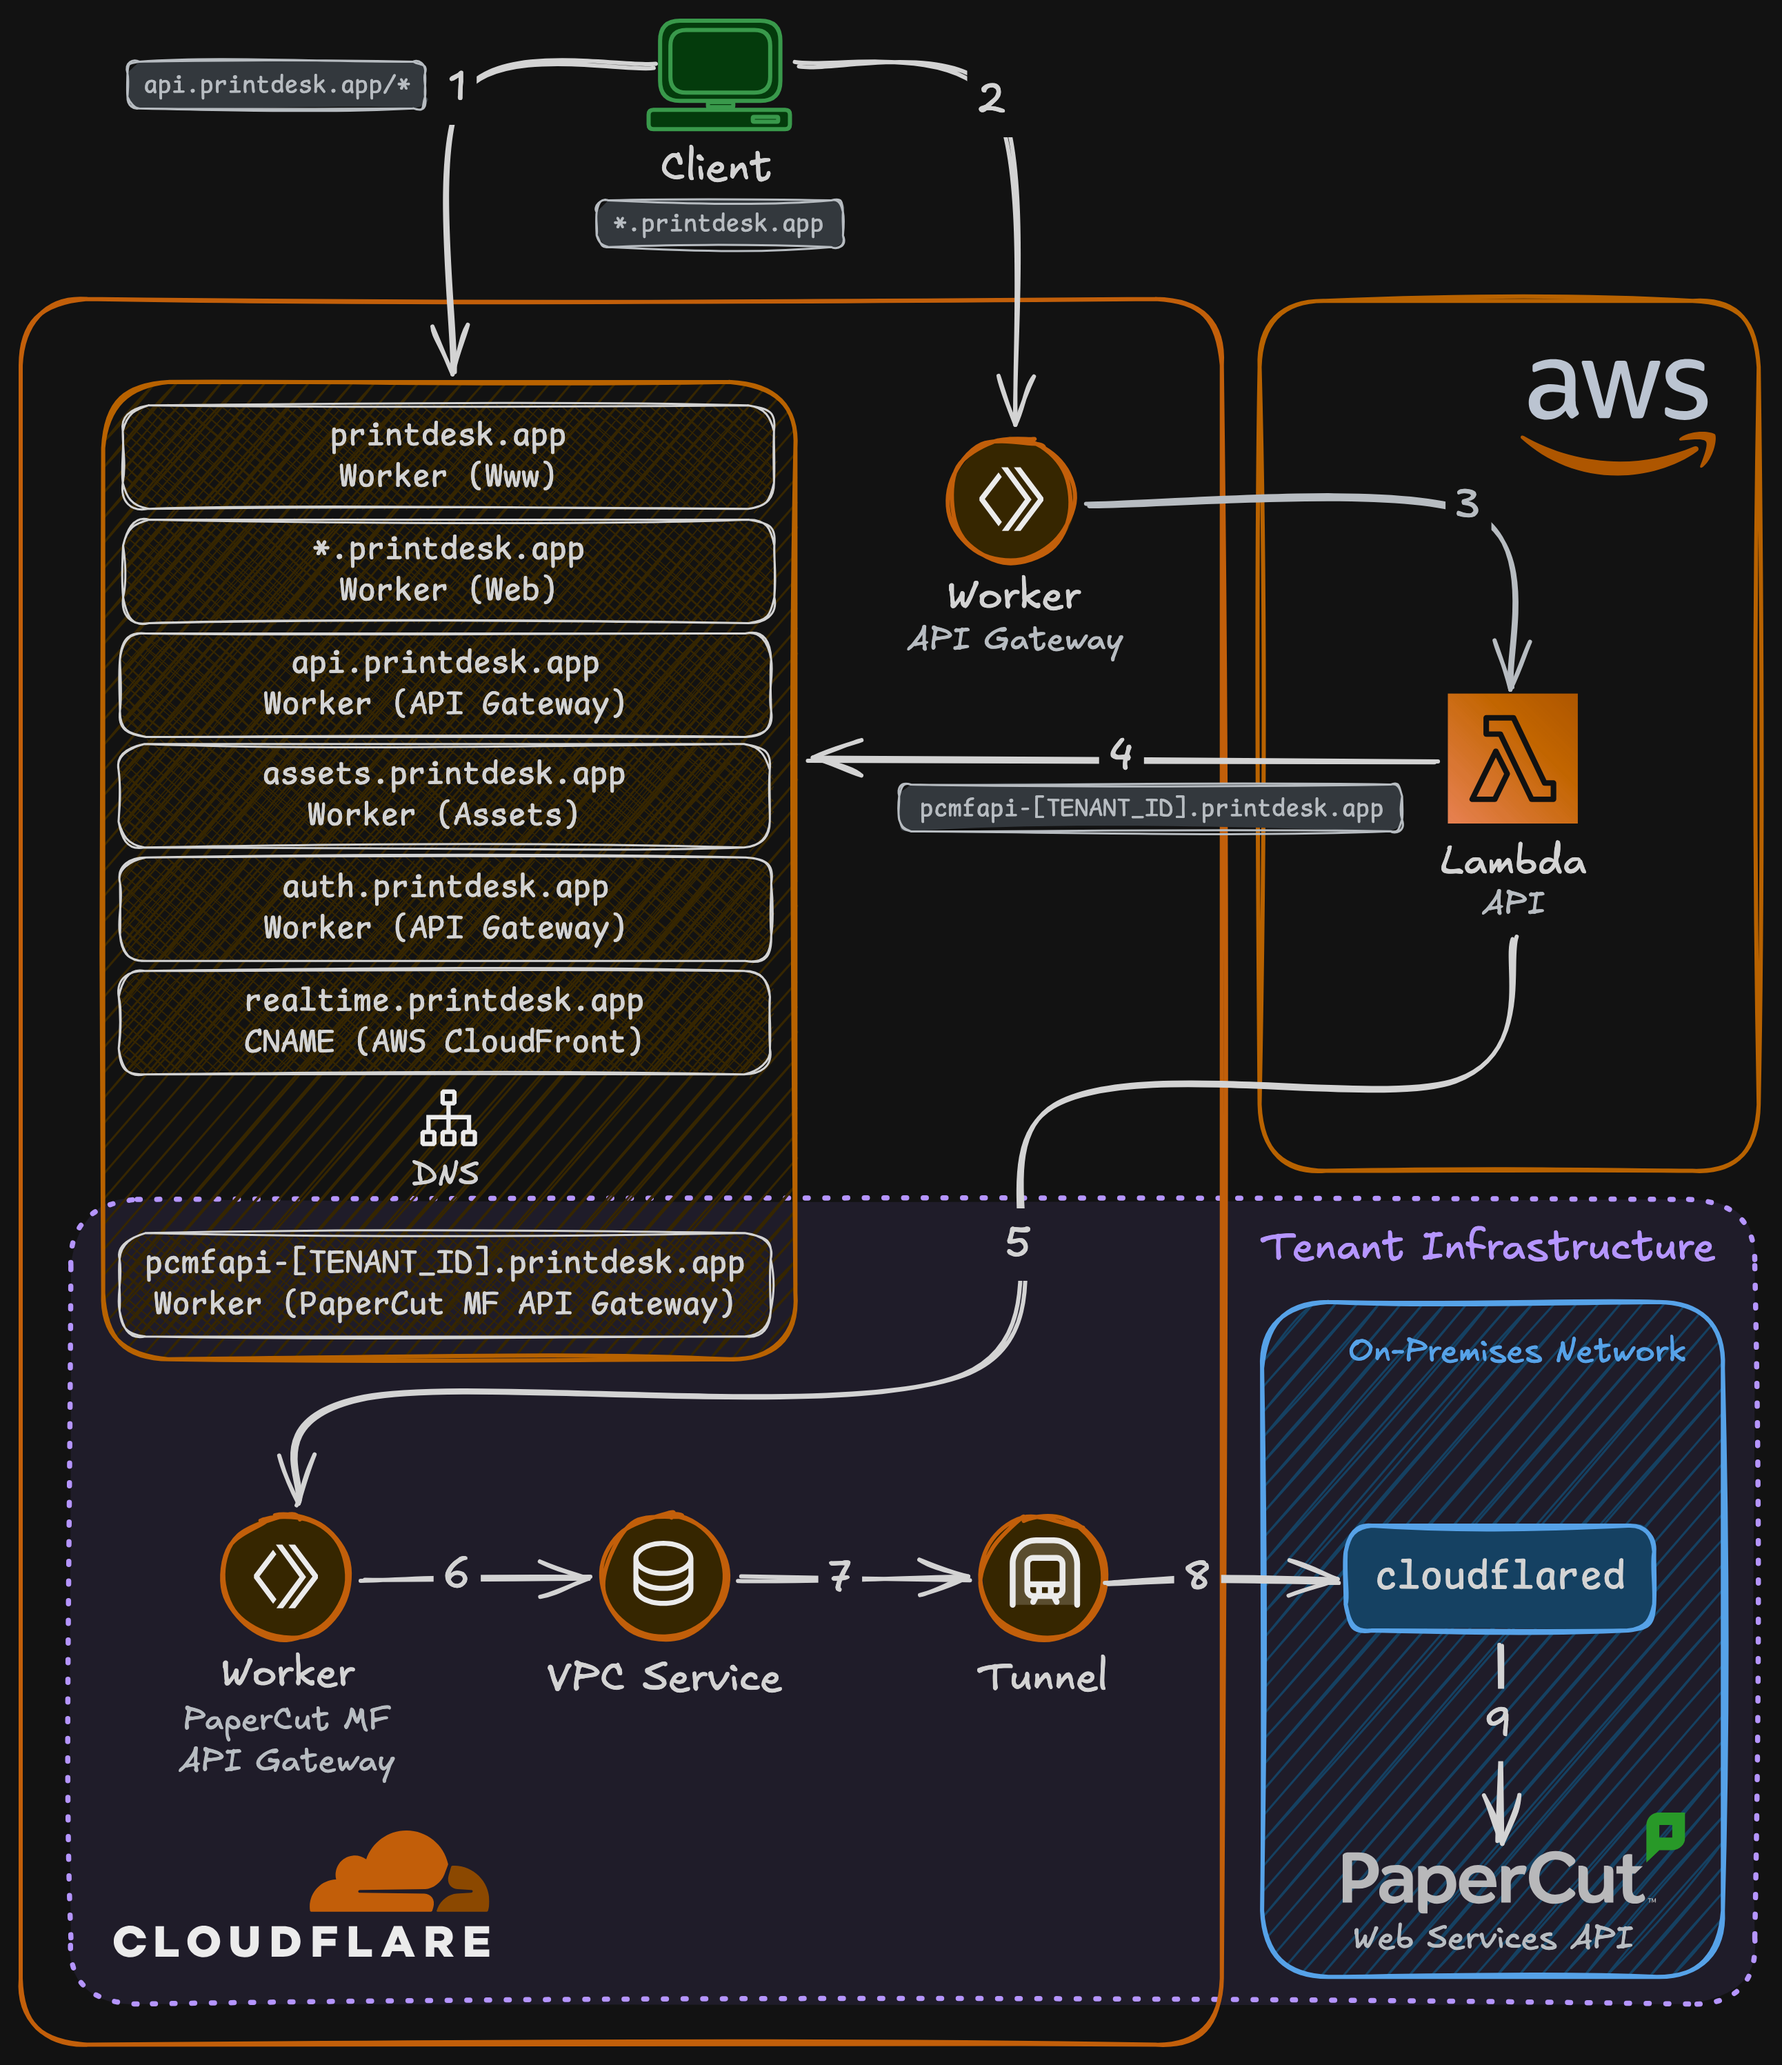
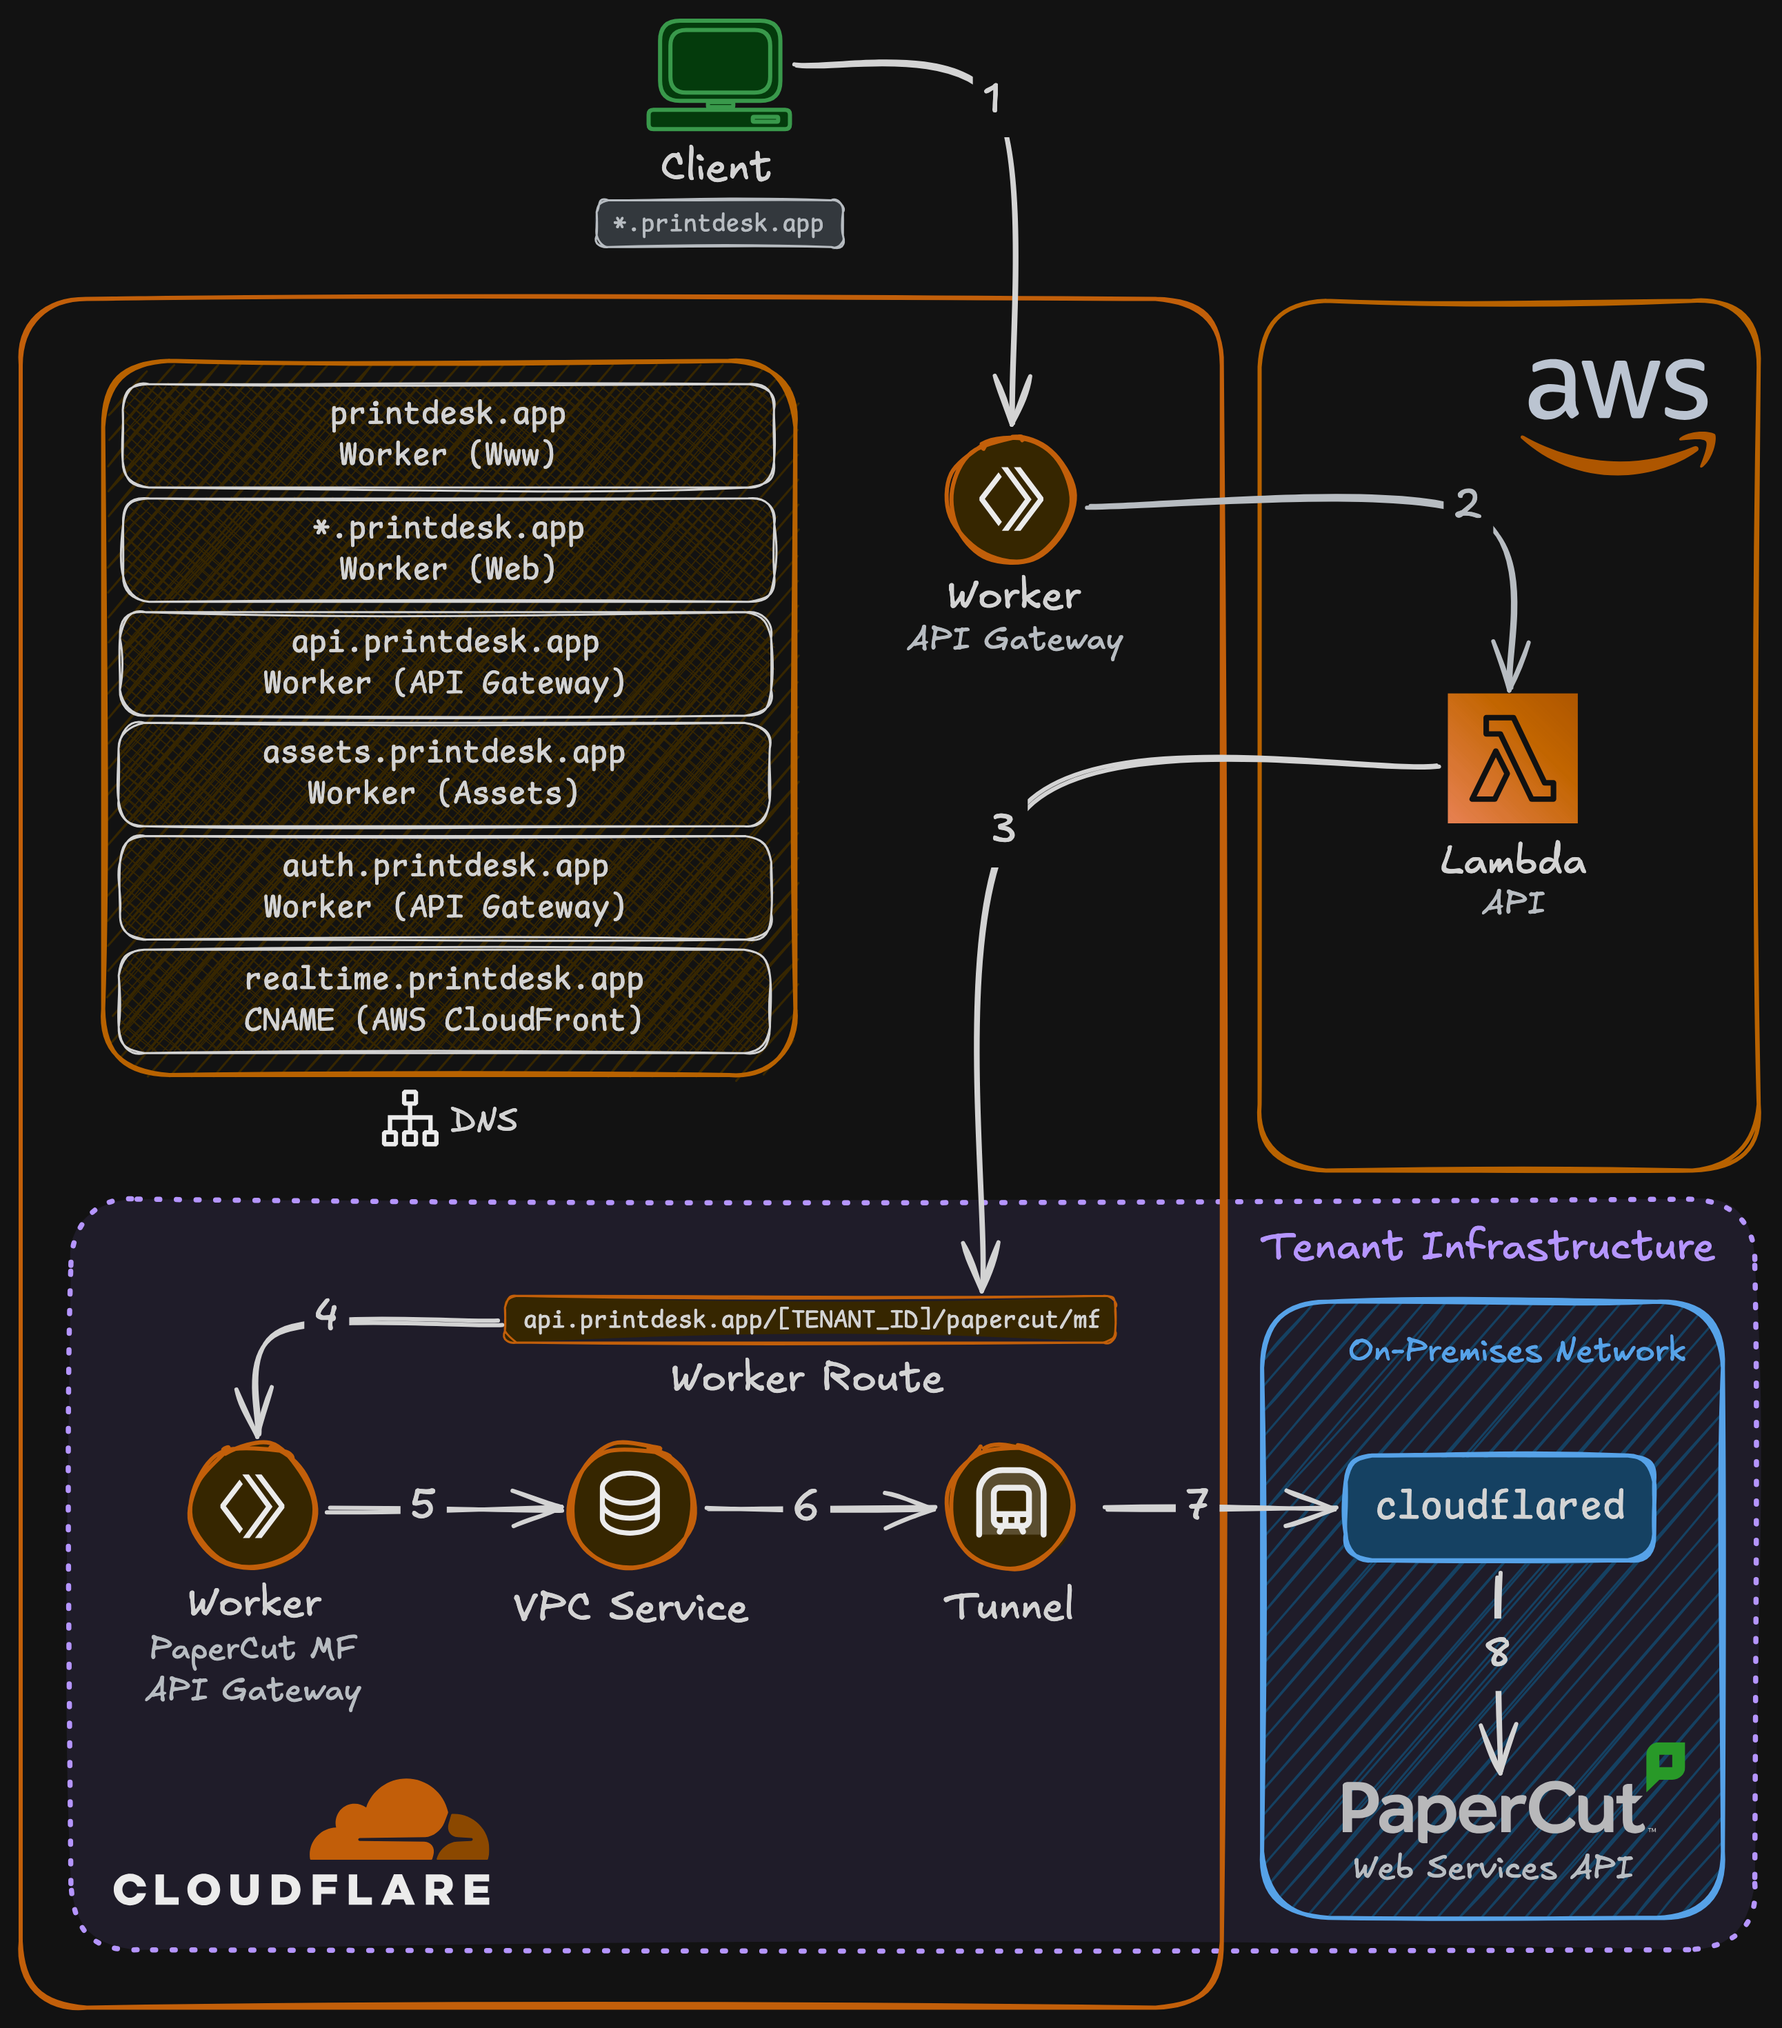
feat: papercut mf api worker route

diff --git a/packages/typescript/core/src/papercut-mf/api/layer.ts b/packages/typescript/core/src/papercut-mf/api/layer.ts
@@ -20,9 +20,7 @@ import { GroupsContract } from "../../groups/contracts";
 import { Oauth } from "../../oauth";
 import { SharedAccountsContract } from "../../shared-accounts/contracts";
 import { SstResource } from "../../sst/resource";
-import { TenantsContract } from "../../tenants/contract";
 import { UsersContract } from "../../users/contract";
-import { TenantId, tenantTemplate } from "../../utils";
 import { Constants } from "../../utils/constants";
 import { XmlRpcContract } from "../../xml/contracts";
 import { XmlRpc } from "../../xml/rpc";
@@ -46,14 +44,15 @@ export const makeService = Effect.gen(function* () {
       actor: ActorsContract.Actor;
       accessToken: OauthContract.Tokens["access"];
     }) {
-      const hostname = yield* key.actor.tenantId.pipe(
-        Effect.flatMap(Schema.encodeEffect(TenantsContract.IdFromUnpaddedBase32String)),
-        Effect.map((base32) => TenantId.make(base32, { disableChecks: true })),
-        Effect.map(tenantTemplate(resource.Hostnames.pipe(Redacted.value).papercutMfApiTemplate)),
+      const baseUrl = yield* key.actor.tenantId.pipe(
+        Effect.map(
+          (tenantId) =>
+            `https://${resource.Hostnames.pipe(Redacted.value).api}/${tenantId}/papercut/mf`,
+        ),
       );
 
       return baseHttpClient.pipe(
-        HttpClient.mapRequest(HttpClientRequest.prependUrl(`https://${hostname}`)),
+        HttpClient.mapRequest(HttpClientRequest.prependUrl(baseUrl)),
         HttpClient.mapRequest(
           HttpClientRequest.setHeader(
             "Proxy-Authorization",
@@ -78,8 +77,8 @@ export const makeService = Effect.gen(function* () {
       ),
     ),
   ).pipe(
-    RequestResolver.setDelay(Constants.PAPERCUT_API_REQUEST_BATCH_DELAY),
-    RequestResolver.batchN(Constants.PAPERCUT_API_REQUEST_BATCH_SIZE),
+    RequestResolver.setDelay(Constants.PAPERCUT_MF_API_REQUEST_BATCH_DELAY),
+    RequestResolver.batchN(Constants.PAPERCUT_MF_API_REQUEST_BATCH_SIZE),
     RequestResolver.withSpan("PapercutMf.Api.resolver"),
   );
 
@@ -136,11 +135,11 @@ export const makeService = Effect.gen(function* () {
 
   const getGroupMembersStream = (groupName: string) =>
     Stream.paginate(0, (offset) =>
-      getGroupMembers(groupName, offset, Constants.PAPERCUT_API_PAGINATION_LIMIT).pipe(
+      getGroupMembers(groupName, offset, Constants.PAPERCUT_MF_API_PAGINATION_LIMIT).pipe(
         Effect.map((page) =>
           Tuple.make(
             page,
-            page.length >= Constants.PAPERCUT_API_PAGINATION_LIMIT
+            page.length >= Constants.PAPERCUT_MF_API_PAGINATION_LIMIT
               ? Option.some(offset + page.length)
               : Option.none(),
           ),
@@ -224,11 +223,11 @@ export const makeService = Effect.gen(function* () {
   );
 
   const listSharedAccountsStream = Stream.paginate(0, (offset) =>
-    listSharedAccounts(offset, Constants.PAPERCUT_API_PAGINATION_LIMIT).pipe(
+    listSharedAccounts(offset, Constants.PAPERCUT_MF_API_PAGINATION_LIMIT).pipe(
       Effect.map((page) =>
         Tuple.make(
           page,
-          page.length >= Constants.PAPERCUT_API_PAGINATION_LIMIT
+          page.length >= Constants.PAPERCUT_MF_API_PAGINATION_LIMIT
             ? Option.some(offset + page.length)
             : Option.none(),
         ),
@@ -260,11 +259,11 @@ export const makeService = Effect.gen(function* () {
   );
 
   const listUserAccountsStream = Stream.paginate(0, (offset) =>
-    listUserAccounts(offset, Constants.PAPERCUT_API_PAGINATION_LIMIT).pipe(
+    listUserAccounts(offset, Constants.PAPERCUT_MF_API_PAGINATION_LIMIT).pipe(
       Effect.map((page) =>
         Tuple.make(
           page,
-          page.length >= Constants.PAPERCUT_API_PAGINATION_LIMIT
+          page.length >= Constants.PAPERCUT_MF_API_PAGINATION_LIMIT
             ? Option.some(offset + page.length)
             : Option.none(),
         ),
@@ -296,11 +295,11 @@ export const makeService = Effect.gen(function* () {
   );
 
   const listUserGroupsStream = Stream.paginate(0, (offset) =>
-    listUserGroups(offset, Constants.PAPERCUT_API_PAGINATION_LIMIT).pipe(
+    listUserGroups(offset, Constants.PAPERCUT_MF_API_PAGINATION_LIMIT).pipe(
       Effect.map((page) =>
         Tuple.make(
           page,
-          page.length >= Constants.PAPERCUT_API_PAGINATION_LIMIT
+          page.length >= Constants.PAPERCUT_MF_API_PAGINATION_LIMIT
             ? Option.some(offset + page.length)
             : Option.none(),
         ),

diff --git a/packages/typescript/core/src/tenants/contract.ts b/packages/typescript/core/src/tenants/contract.ts
@@ -1,9 +1,5 @@
-import { decodeBase32IgnorePadding, encodeBase32LowerCaseNoPadding } from "@oslojs/encoding";
 import * as Effect from "effect/Effect";
-import * as Encoding from "effect/Encoding";
 import * as Schema from "effect/Schema";
-import * as SchemaGetter from "effect/SchemaGetter";
-import * as SchemaIssue from "effect/SchemaIssue";
 import * as Struct from "effect/Struct";
 import * as HttpServerRespondable from "effect/unstable/http/HttpServerRespondable";
 import * as HttpServerResponse from "effect/unstable/http/HttpServerResponse";
@@ -11,57 +7,12 @@ import * as HttpServerResponse from "effect/unstable/http/HttpServerResponse";
 import { ColumnsContract } from "../columns/contract";
 import { Handler } from "../handlers";
 import { TablesContract } from "../tables/contract";
-import { EntityId, TenantId, UnpaddedBase32 } from "../utils";
+import { EntityId } from "../utils";
 import { Constants } from "../utils/constants";
 
 import type { TenantsTable } from "./sql";
 
 export namespace TenantsContract {
-  const textEncoder = new TextEncoder();
-  const textDecoder = new TextDecoder();
-
-  export const IdFromUnpaddedBase32String = UnpaddedBase32.pipe(
-    Schema.decodeTo(TenantId, {
-      decode: SchemaGetter.transformEffect((base32, options) =>
-        Effect.try({
-          try: () => decodeBase32IgnorePadding(base32),
-          catch: (error) =>
-            new Encoding.EncodingError({
-              input: base32,
-              kind: "Decode",
-              module: "TenantsContract",
-              message:
-                error instanceof globalThis.Error
-                  ? error.message
-                  : "Unknown error decoding tenant id",
-            }),
-        }).pipe(
-          Effect.flatMap((bytes) =>
-            Effect.try({
-              try: () => textDecoder.decode(bytes),
-              catch: (error) =>
-                new Encoding.EncodingError({
-                  input: bytes,
-                  kind: "Decode",
-                  module: "TenantsContract",
-                  message:
-                    error instanceof globalThis.Error
-                      ? error.message
-                      : "Unknown error decoding tenant id",
-                }),
-            }),
-          ),
-          Effect.mapError(
-            (e) => new SchemaIssue.InvalidValue({ message: e.message }, base32, options),
-          ),
-        ),
-      ),
-      encode: SchemaGetter.transform((tenantId) =>
-        encodeBase32LowerCaseNoPadding(textEncoder.encode(tenantId)),
-      ),
-    }),
-  );
-
   export const Status = Schema.Literals(["setup", "active", "suspended"]);
   export type Status = typeof Status.Type;
 

diff --git a/packages/typescript/core/src/utils/constants.ts b/packages/typescript/core/src/utils/constants.ts
@@ -103,10 +103,9 @@ export namespace Constants {
   export const VARCHAR_LENGTH = 50;
 
   export const PAPERCUT_MF_API_PATH = "/rpc/api/xmlrpc";
-
-  export const PAPERCUT_API_PAGINATION_LIMIT = 1_000;
-  export const PAPERCUT_API_REQUEST_BATCH_SIZE = 50;
-  export const PAPERCUT_API_REQUEST_BATCH_DELAY = "100 millis" satisfies Duration.Input;
+  export const PAPERCUT_MF_API_PAGINATION_LIMIT = 1_000;
+  export const PAPERCUT_MF_API_REQUEST_BATCH_SIZE = 50;
+  export const PAPERCUT_MF_API_REQUEST_BATCH_DELAY = "100 millis" satisfies Duration.Input;
 
   export const GRAPH_REQUEST_BATCH_SIZE = 50;
   export const GRAPH_REQUEST_BATCH_DELAY = "100 millis" satisfies Duration.Input;
@@ -148,9 +147,6 @@ export namespace Constants {
   );
   export const ISO_DATE_REGEX = new RegExp(/^\d{4}-(?:0[1-9]|1[0-2])-(?:[12]\d|0[1-9]|3[01])$/u);
   export const HEX_COLOR_REGEX = new RegExp(/^#(?:[\da-fA-F]{3,4}|[\da-fA-F]{6}|[\da-fA-F]{8})$/u);
-  export const UNPADDED_BASE32_REGEX = new RegExp(
-    /^(?:[A-Z2-7]{8})*(?:[A-Z2-7]{2}|[A-Z2-7]{4}|[A-Z2-7]{5}|[A-Z2-7]{7})?$/i,
-  );
   export const IPV4_REGEX = new RegExp(
     /^(?:(?:[1-9]|1\d|2[0-4])?\d|25[0-5])(?:\.(?:(?:[1-9]|1\d|2[0-4])?\d|25[0-5])){3}$/u,
   );

diff --git a/packages/typescript/core/src/xml/rpc.ts b/packages/typescript/core/src/xml/rpc.ts
@@ -45,12 +45,11 @@ export namespace XmlRpc {
     }),
   });
 
-  export const XmlRpcRequestPath = Context.Reference<string>(
-    "@printdesk/core/xml/rpc/XmlRpcRequestPath",
-    { defaultValue: () => "/" },
-  );
+  export const XmlRpcRequestPath = Context.Reference<string>("@printdesk/core/xml/RpcRequestPath", {
+    defaultValue: () => "/",
+  });
 
-  export class XmlRpc extends Context.Service<XmlRpc>()("@printdesk/core/xml/rpc/XmlRpc", {
+  export class XmlRpc extends Context.Service<XmlRpc>()("@printdesk/core/xml/Rpc", {
     make: Effect.gen(function* () {
       const { build } = yield* Xml.Builder;
       const { parse } = yield* Xml.Parser;

diff --git a/infra/dns.ts b/infra/dns.ts
@@ -1,5 +1,3 @@
-import { Constants } from "@printdesk/core/utils/constants";
-
 import { cloudflare_, isProdStage } from "./utils";
 
 import { ZoneLookup } from "~/sst/cloudflare/providers/zone-lookup";
@@ -29,7 +27,6 @@ export const hostnames = new sst.Linkable("Hostnames", {
     api: buildHostname("api"),
     auth: buildHostname("auth"),
     assets: buildHostname("assets"),
-    papercutMfApiTemplate: buildHostname(`pcmfapi-${Constants.TENANT_ID_PLACEHOLDER}`), // base32 encoded id
     realtime: buildHostname("realtime"),
     web: buildHostname(isProdStage ? "*" : undefined),
     www: buildHostname(isProdStage ? undefined : "www"),

diff --git a/packages/typescript/core/src/utils/index.ts b/packages/typescript/core/src/utils/index.ts
@@ -58,9 +58,6 @@ export const NonEmptyString = Schema.NonEmptyString as _NonEmptyString;
 export type NonEmptyString = typeof NonEmptyString.Type;
 
 export const Base64 = Schema.NonEmptyString.pipe(Schema.check(Schema.isBase64()));
-export const UnpaddedBase32 = Schema.NonEmptyString.pipe(
-  Schema.check(Schema.isPattern(Constants.UNPADDED_BASE32_REGEX)),
-);
 
 export const Separator = Schema.Literal(Constants.SEPARATOR);
 

diff --git a/sst-env.d.ts b/sst-env.d.ts
@@ -183,7 +183,6 @@ declare module "sst" {
       "api": string
       "assets": string
       "auth": string
-      "papercutMfApiTemplate": string
       "realtime": string
       "type": "sst.sst.Linkable"
       "web": string

diff --git a/packages/python/functions/infra_manager/program/components/papercut_mf.py b/packages/python/functions/infra_manager/program/components/papercut_mf.py
@@ -1,4 +1,3 @@
-import base64
 import json
 from dataclasses import dataclass
 
@@ -316,20 +315,16 @@ class PapercutMf(pulumi.ComponentResource):
             opts=pulumi.ResourceOptions(parent=self),
         )
 
-        self._api_domain = cloudflare.WorkersCustomDomain(
-            resource_name="PapercutMfApiDomain",
-            args=cloudflare.WorkersCustomDomainArgs(
-                account_id=Resource.Cloudflare.account.id,
+        self._api_route = cloudflare.WorkersRoute(
+            resource_name="PapercutMfApiRoute",
+            args=cloudflare.WorkersRouteArgs(
                 zone_id=Resource.Zone.id,
-                hostname=pulumi.Output.from_input(args.tenant_id).apply(
-                    lambda tenant_id: (
-                        base64.b32encode(tenant_id.encode("utf-8"))
-                        .decode("utf-8")
-                        .lower()
-                        .rstrip("=")
-                    )
+                pattern=pulumi.Output.format(
+                    "{0}/{1}/papercut/mf",
+                    Resource.Hostnames.api,
+                    args.tenant_id,
                 ),
-                service=self._api_gateway_script.script_name,
+                script=self._api_gateway_script.script_name,
             ),
             opts=pulumi.ResourceOptions(parent=self),
         )
